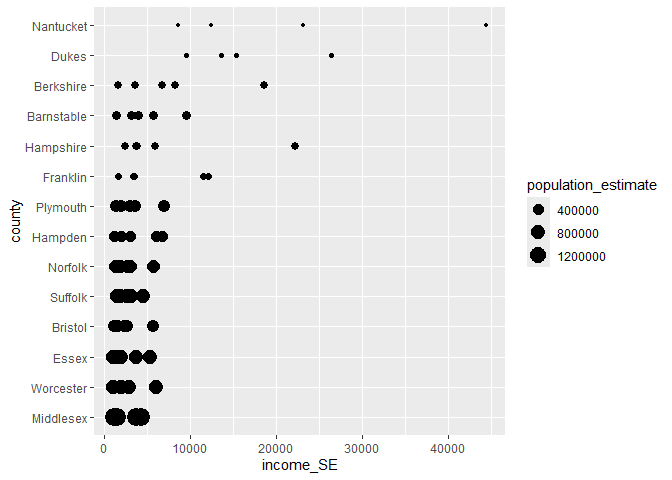
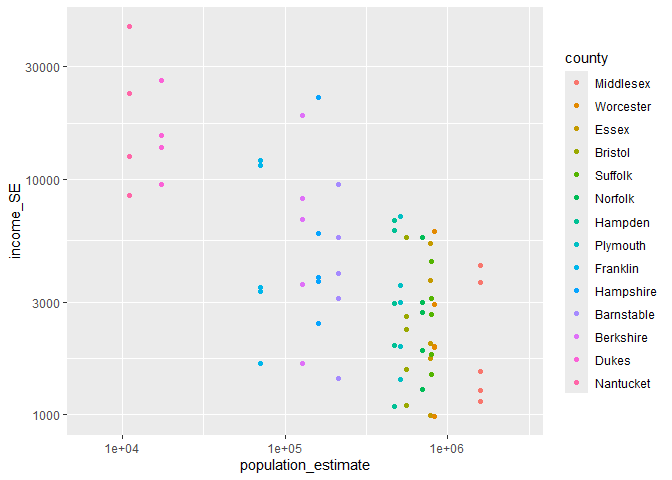
Assignment 9 and 11 resubmission

diff --git a/challenges/c09-income-assignment.md b/challenges/c09-income-assignment.md
@@ -335,7 +335,7 @@ $$\text{MOE} = 1.645 \times \text{SE}.$$
 df_q4 <- 
   df_q3 %>% 
   mutate(
-    income_SE = income_moe/1.645,
+    income_SE = income_moe / 1.645,
     
     income_lo = income_estimate - (2.576 * income_SE),
     income_hi = income_estimate + (2.576 * income_SE),
@@ -515,7 +515,7 @@ df_data %>%
   - The confidence interval for Nantucket is very large, alongside
     5-person families.
   - The 2 person families have the lowest median household income, while
-    it seems like 6 person families have the highest household income.
+    6 person families tend to have the highest household income.
 - Can you confidently distinguish between household incomes in Suffolk
   county? Why or why not?
   - No because given the range for the household income, household types
@@ -542,12 +542,14 @@ df_q7 <-
   )%>%
   ggplot(
     aes(
-    x = county, 
+    x = population_estimate,
     y = income_SE, 
-    size = population_estimate)
-    ) +
+    color = county, 
+    )
+  ) +
   geom_point(position = position_dodge(width = wid)) +
-  coord_flip()
+  scale_x_log10() +
+  scale_y_log10() 
 ```
 
     ## Warning: There was 1 warning in `mutate()`.
@@ -561,38 +563,30 @@ df_q7 <-
 df_q7
 ```
 
+    ## Warning: `position_dodge()` requires non-overlapping x intervals.
+
     ## Warning: Removed 2 rows containing missing values or values outside the scale range
     ## (`geom_point()`).
 
 ![](c09-income-assignment_files/figure-gfm/q7-task-1.png)<!-- -->
 
-``` r
-  # ggplot(aes(county, income_SE, color = category)) +
-  # geom_errorbar(
-  #   aes(ymin = income_lo, ymax = income_hi),
-  #   position = position_dodge(width = wid)
-  # ) +
-  # geom_point(position = position_dodge(width = wid)) +
-  # 
-  # coord_flip() +
-  # labs(
-  #   x = "County",
-  #   y = "Median Household Income"
-  # )
-```
-
 **Observations**:
 
 - What *overall* trend do you see between `SE` and population? Why might
   this trend exist?
-  - For larger populations, the SE is less. This might be due how the
-    population size affects how much error exists, where a larger
-    population may result in less SE.
+  - For larger population sizes, the standard error tends to be less.
+    This may be due to how the Census Bureau collects data from their
+    sample population, where the sample population is a percentage of
+    the target population. If the Census Bureau uses this sampling
+    method, the counties with larger population will have a larger
+    sample size, resulting in a lower SE.
 - What does this *overall* trend tell you about the relative ease of
   studying small vs large counties?
-  - For large counties, there will often be less standard error,
-    resulting in data being more reliable. When studying small counties,
-    we may need to factor in standard error when making decisions.
+  - If we were secondary researchers trying to take data that has
+    already been collected from sources similar to that of the census
+    Bureau, we must be cautious about the varying standard errors due to
+    the population sizes. It is important to keep the varying SE’s in
+    consideration when trying to study the small counties.
 
 # Going Further
 
@@ -608,12 +602,13 @@ States: Pose your own question and try to answer it with the data.
 
 df_data %>%
   filter(str_detect(geographic_area_name, "California")) %>%
+  filter(str_detect(geographic_area_name, "San") | str_detect(geographic_area_name, "Los")) %>%
   mutate(
     county = str_remove(geographic_area_name, " County,.*$"),
     county = fct_reorder(county, population_estimate)
   )%>%
   
-  ggplot(aes(county, income_estimate, size = population_estimate, color = category)) +
+  ggplot(aes(county, income_estimate, color = category)) +
   geom_errorbar(
     aes(ymin = income_lo, ymax = income_hi),
     position = position_dodge(width = wid)
@@ -627,26 +622,14 @@ df_data %>%
   )
 ```
 
-    ## Warning: Using `size` aesthetic for lines was deprecated in ggplot2 3.4.0.
-    ## ℹ Please use `linewidth` instead.
-    ## This warning is displayed once every 8 hours.
-    ## Call `lifecycle::last_lifecycle_warnings()` to see where this warning was
-    ## generated.
-
-    ## Warning: Removed 5 rows containing missing values or values outside the scale range
-    ## (`geom_point()`).
-
 ![](c09-income-assignment_files/figure-gfm/q8-task-1.png)<!-- -->
 
 **Observations**:
 
-- The largest population resides in Los Angeles, and LA doesn’t have the
-  largest median household income. We see the same trend where the
-  larger populations then to have smaller confidence intervals due to
-  the large sample size. Furthermore, I am noticing that the 4-person
-  category seems to have the smallest confidence interval, which also
-  reinforces the idea that a larger sample size will result in smaller
-  confidence intervals.
+- LA doesn’t have the largest median household income. Furthermore, I am
+  noticing that the 4-person category seems to have the smallest
+  confidence interval, which also reinforces the idea that a larger
+  sample size will result in smaller confidence intervals.
 
 Ideas:
 

diff --git a/challenges/c11-psaap-assignment.md b/challenges/c11-psaap-assignment.md
@@ -243,7 +243,7 @@ df_psaap %>%
 **Observations**:
 
 - 140 rows, 22 columns
-- 23 variables
+- 22 variables
 
 The important variables in this dataset are:
 
@@ -387,8 +387,8 @@ rsquare(fit_nonphysical, df_validate)
     rsquare value, which means that the model is least accurate
 - What *Category* of variable is `avg_T`? Why is it such an effective
   predictor?
-  - avg-T is an output variable and is a good predictor because it is
-    proportional to T_norm
+  - avg-T is an output variable. It is a good predictor because it
+    T_norm is computed in terms of avg_T.
 - Would we have access to `avg_T` if we were trying to predict a *new*
   value of `T_norm`? Is `avg_T` a valid predictor?
   - no because the avg_T and T_norm are both output variables. avg_T
@@ -484,8 +484,8 @@ summary(fit_q4)
   the output `T_norm`; so they are all “significant” in that sense. What
   does this tell us about the limitations of statistical significance
   for interpreting regression coefficients?
-  - The statistical significance for the regression coefficients isn’t
-    directly related to the significance of the effects
+  - The statistical significance of the regression coefficients isn’t
+    directly related to how large the effects are compared to others.
 
 ## Contrasting CI and PI
 
@@ -710,6 +710,8 @@ df_intervals <-
   add_uncertainties(fit_q6, interval = "confidence", prefix = "ci") %>%
   add_uncertainties(fit_q6, interval = "prediction", prefix = "pi")
 
+
+
 bind_rows(
   df_validate %>% 
     add_uncertainties(fit_q6, interval = "prediction", prefix = "pi") %>% 
@@ -750,6 +752,25 @@ intervals_q6 <-
     prefix = "pi", 
     level = pr_level)
 
+intervals_design <-
+  df_design %>%
+  add_uncertainties(
+    model = fit_q6,
+    interval = "prediction",
+    level = pr_level,
+    prefix = "pi"
+  )
+
+intervals_design %>% 
+  select(pi_fit, pi_lwr, pi_upr)
+```
+
+    ## # A tibble: 1 × 3
+    ##   pi_fit pi_lwr pi_upr
+    ##    <dbl>  <dbl>  <dbl>
+    ## 1   1.88   1.46   2.30
+
+``` r
 mean(intervals_q6$pi_lwr <= df_validate$T_norm & df_validate$T_norm <= intervals_q6$pi_upr)
 ```
 
@@ -758,9 +779,10 @@ mean(intervals_q6$pi_lwr <= df_validate$T_norm & df_validate$T_norm <= intervals
 **Recommendation**:
 
 - How much do you trust your model? Why?
-  - The model has a 93% value, but the rsquare value is lower at 67%. I
-    think that due to the rsquare value being lower, I can’t rely on the
-    93% accuracy to use it as a predictor for T_norm
+  - The model has a 93% value, but the rsquare value is lower at 67%.
+    However, I am comparing the 93% value to that of the 80% coverage
+    value. Therefore I am able to trust my model as it goes over the 80%
+    coverage.
 - What kind of interval—confidence or prediction—would you use for this
   task, and why?
   - I would use a prediction interval because we want to understand what
@@ -774,11 +796,13 @@ mean(intervals_q6$pi_lwr <= df_validate$T_norm & df_validate$T_norm <= intervals
 - What interval for `T_norm` would you recommend the design team to plan
   around?
   - I would recommend the design team to plan around the higher end of
-    T_norm, at around 0.4 and 1.6 since that seems to be the realized
-    range.
+    T_norm, at around 0.46 and 2.30 since that seems to be the upper and
+    lower intervals from the design.
 - Are there any other recommendations you would provide?
-  - Including other variables that may be uncontrollable will shift
-    T_norm.
+  - To reduce further uncertainty, you can add more input variables to
+    control. I would try to control the number of particles, since that
+    seems to be something that is controllable, and not an input
+    variable that we can’t control but measure.
 
 *Bonus*: One way you could take this analysis further is to recommend
 which other variables the design team should tightly control. You could
